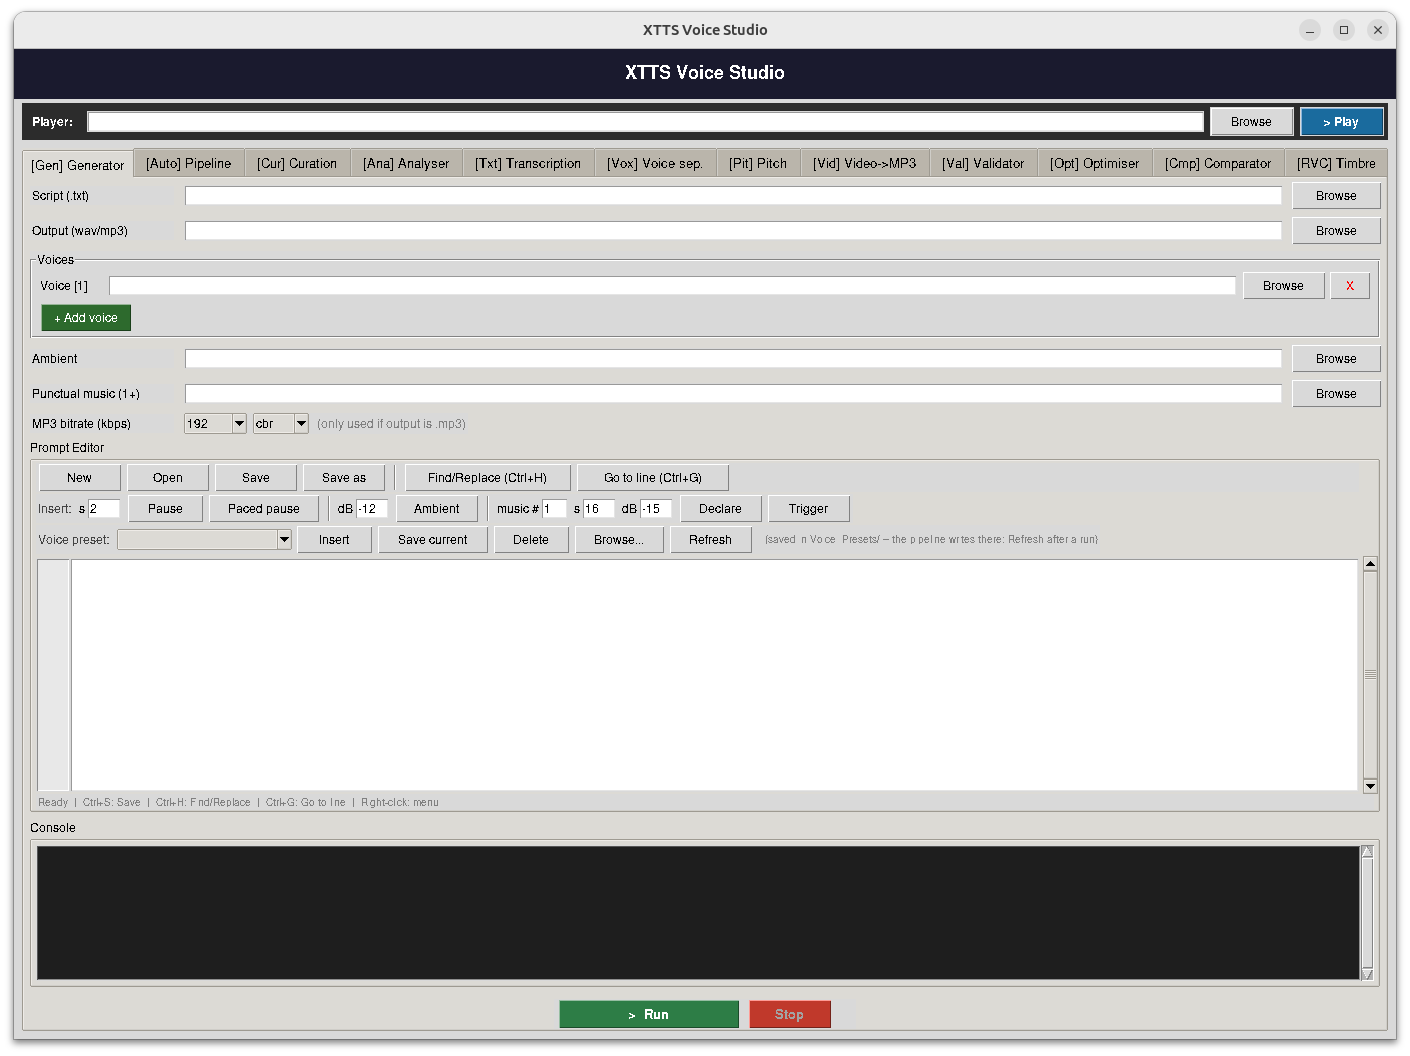
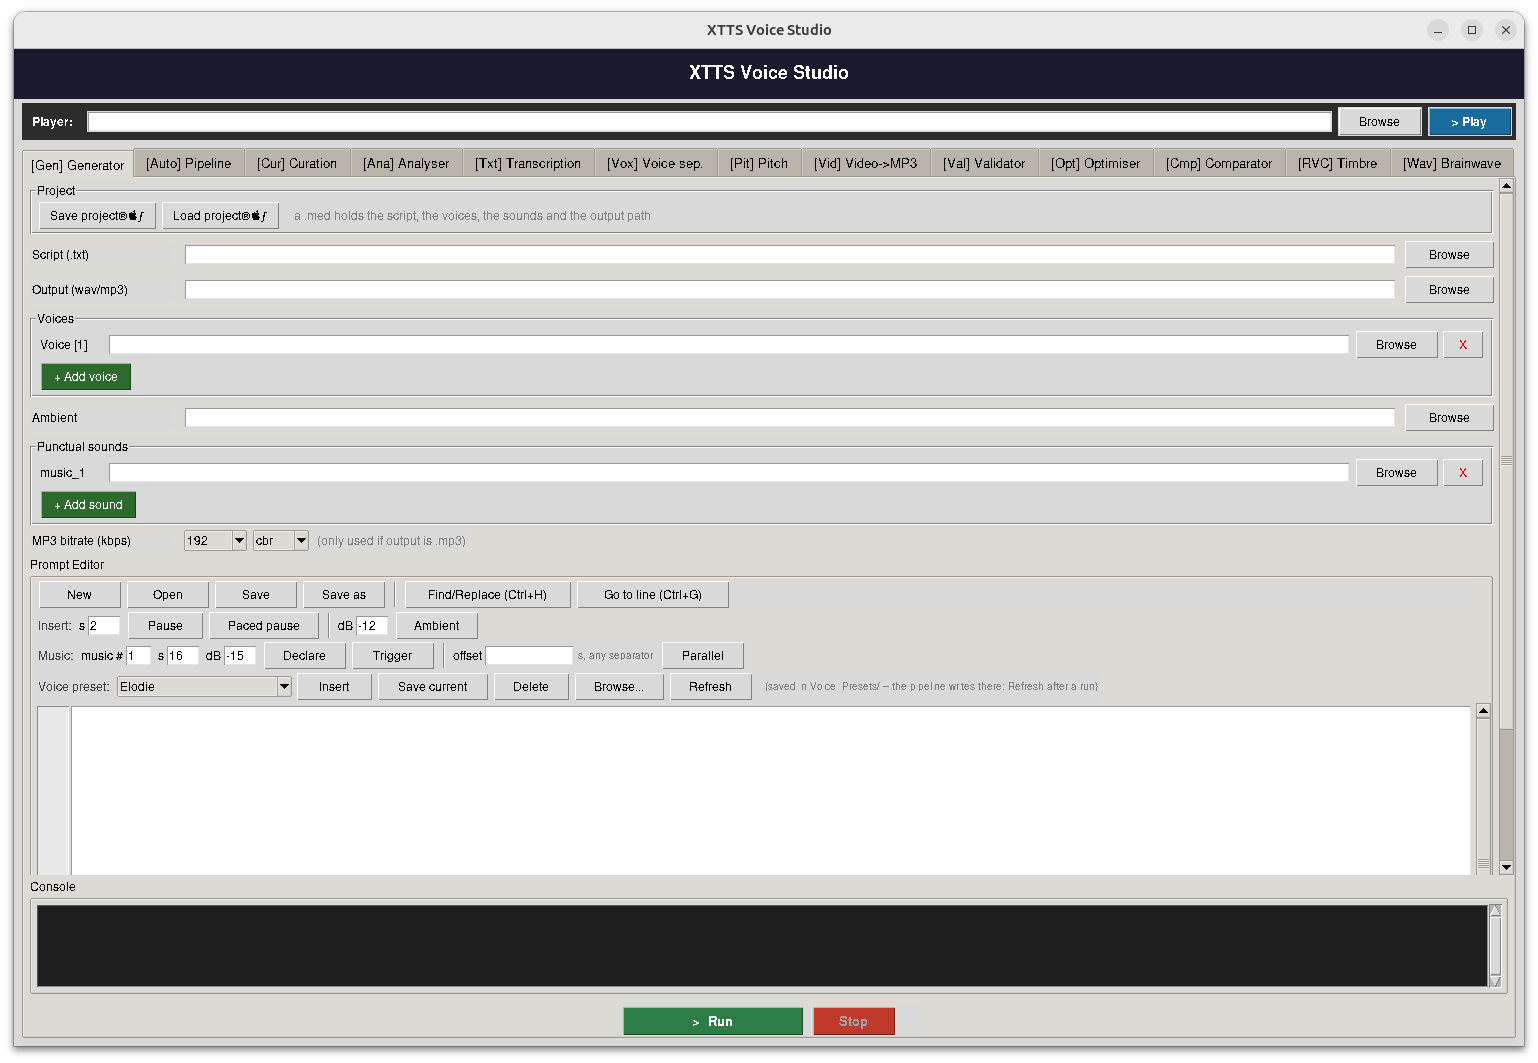
README: document .med projects -- Save/Load keep the script text, the voices with their reference files, the ambient bed, the punctual sounds, the output path and the MP3 settings in one readable file, with one line per voice since a row can hold several references. Refreshed the GUI screenshot to m

diff --git a/README.md b/README.md
@@ -570,6 +570,32 @@ The blocks paste straight into a prompt. In `[Gen]`, the preset bar inserts,
 saves, deletes and browses them; `--preset-name` names them per voice from the
 pipeline, `--no-save-preset` disables the automatic save.
 
+### Projects (`.med`)
+
+**`Save project…`** and **`Load project…`**, above the script field, keep a whole
+session in one readable file: the script text itself, each voice with its
+reference files, the ambient bed, the punctual sounds, the output path and the
+MP3 settings. A prompt on its own says nothing about what went with it.
+
+```
+# XTTS Voice Studio project
+script_path = .../Prompts/meditation.txt
+output      = .../Output_Song_files/session.wav
+voice       = .../anna_close.wav ; .../anna_room.wav
+voice       = .../lea.wav
+ambient     = .../pad.mp3
+sounds      = .../bowl.wav ; .../gong.wav
+mp3_bitrate = 192
+mp3_mode    = cbr
+--- script ---
+<the whole prompt>
+```
+
+One line per voice, because a voice row can hold several references — see
+below. Projects live in `Meditation_Projects/`, created on first use. Loading
+rebuilds the voice and sound rows to match the file, so a project with four
+voices opens with four rows.
+
 ### Multi-reference voices
 
 Multiple reference files per voice significantly improve cloning quality — XTTS averages the speaker embeddings:
